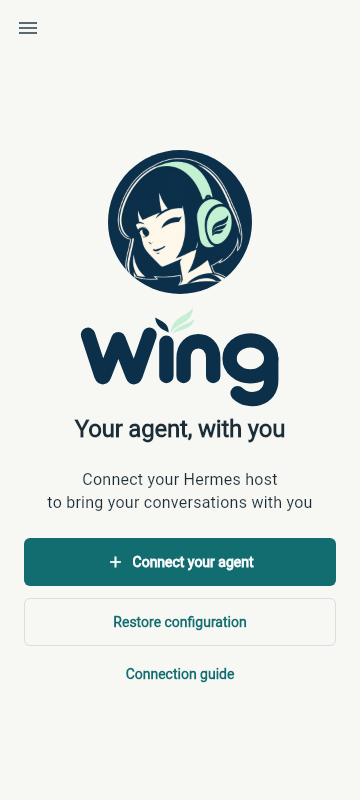
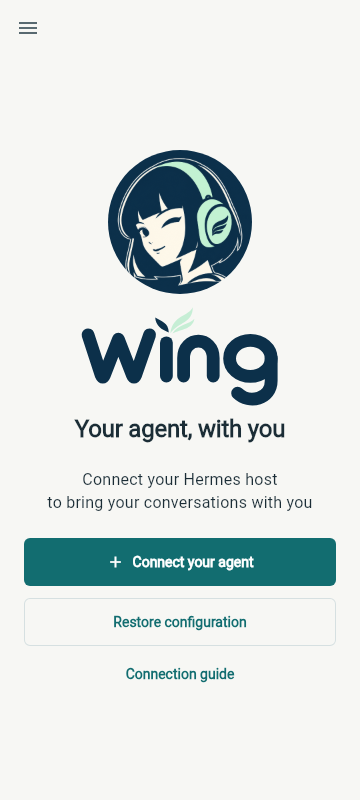
Lighten Wing lettering evenly across the app

diff --git a/lib/core/widgets/wing_wordmark.dart b/lib/core/widgets/wing_wordmark.dart
@@ -36,7 +36,7 @@ class _WingPainter extends CustomPainter {
     final stroke = Paint()
       ..color = ink
       ..style = PaintingStyle.stroke
-      ..strokeWidth = 36
+      ..strokeWidth = 32
       ..strokeCap = StrokeCap.round
       ..strokeJoin = StrokeJoin.round;
     // Keep the modest capital W at the same stroke weight as ing.

diff --git a/docs/design/2026-09-17-wing-capitalization.md b/docs/design/2026-09-17-wing-capitalization.md
@@ -23,15 +23,19 @@ palette. Package identifiers, native channels and file names remain lowercase.
 - [Light welcome](images/wing-welcome-light.png) and
   [dark welcome](images/wing-welcome-dark.png): actual Flutter widget renders.
 - [Production wordmark](../../lib/core/widgets/wing_wordmark.dart): scalable
-  lettering shared by welcome and connection guide screens. Every letter uses
-  the same 36-unit stroke. The owner rejected the thinner W in the welcome
-  screenshots; retain the modest capital height without reducing its weight.
+  lettering shared by the drawer, welcome and connection guide screens. Every
+  letter uses the same 32-unit stroke, reduced evenly from 36 after the owner
+  found the overall lettering slightly heavy in the drawer. Preserve its size
+  and geometry; the W must keep the same weight as ing.
 
 The portrait-only launcher and notification symbols contain no wordmark.
 Their production artwork remains the selected portrait, wing and caduceus.
 
 ## Validation
 
+- The uniform 32-unit refinement passed 11 welcome/drawer checks and six render
+  checks. Welcome and drawer output was inspected in both themes at normal and
+  doubled text; the tracked welcome screenshots were refreshed from those renders.
 - Full pre-install suite: 2,095 tests passed, with 12 opt-in skips. The welcome
   interaction and render checks were repeated after the final stroke correction.
 - Ten existing welcome, release-link and application-identity tests passed

diff --git a/docs/DESIGN_SYSTEM.md b/docs/DESIGN_SYSTEM.md
@@ -31,6 +31,8 @@ diagonals to match the optical weight of ing. Follow the approved README banner;
 uppercase must not make the initial heavier, fatter or disproportionately tall.
 In the Flutter wordmark, use the same stroke width for W and ing. The owner
 rejected the thinner W in the welcome screenshots; the banner remains selected.
+After reviewing the drawer, the owner requested a lighter overall weight: use
+32-unit strokes for every letter, reduced from 36, with the same geometry and size.
 
 The owner selected the Playful portrait: a winking woman with a simple dark bob,
 mint headphones and a messenger wing on the earcup. Keep the navy, cream and
